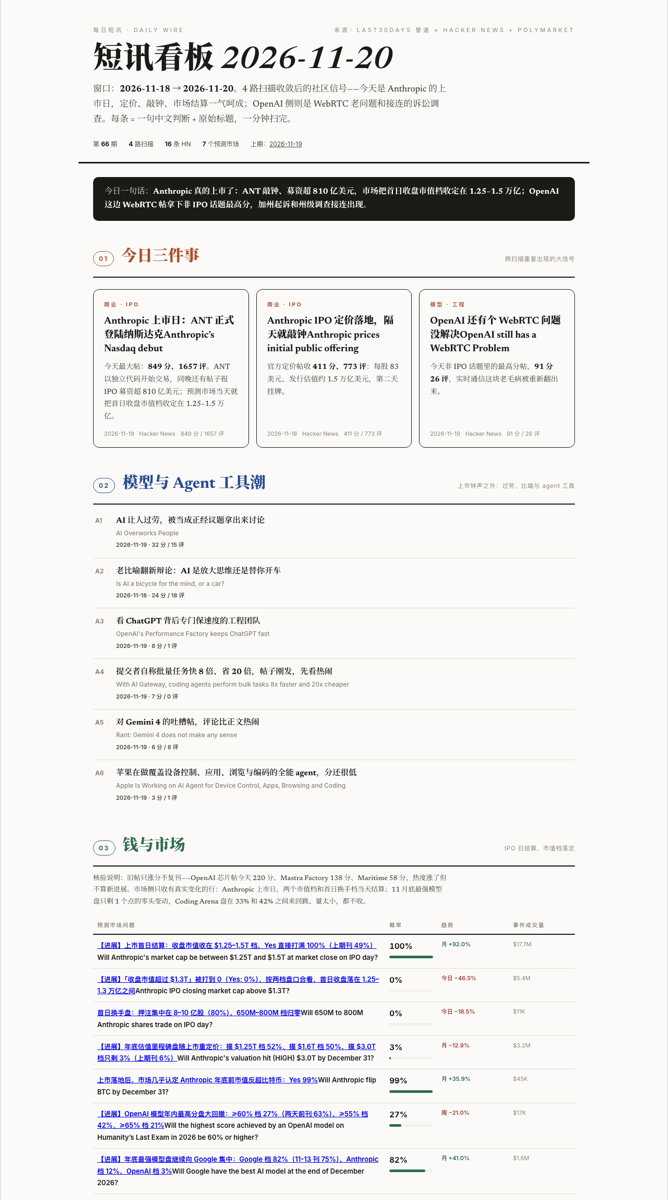
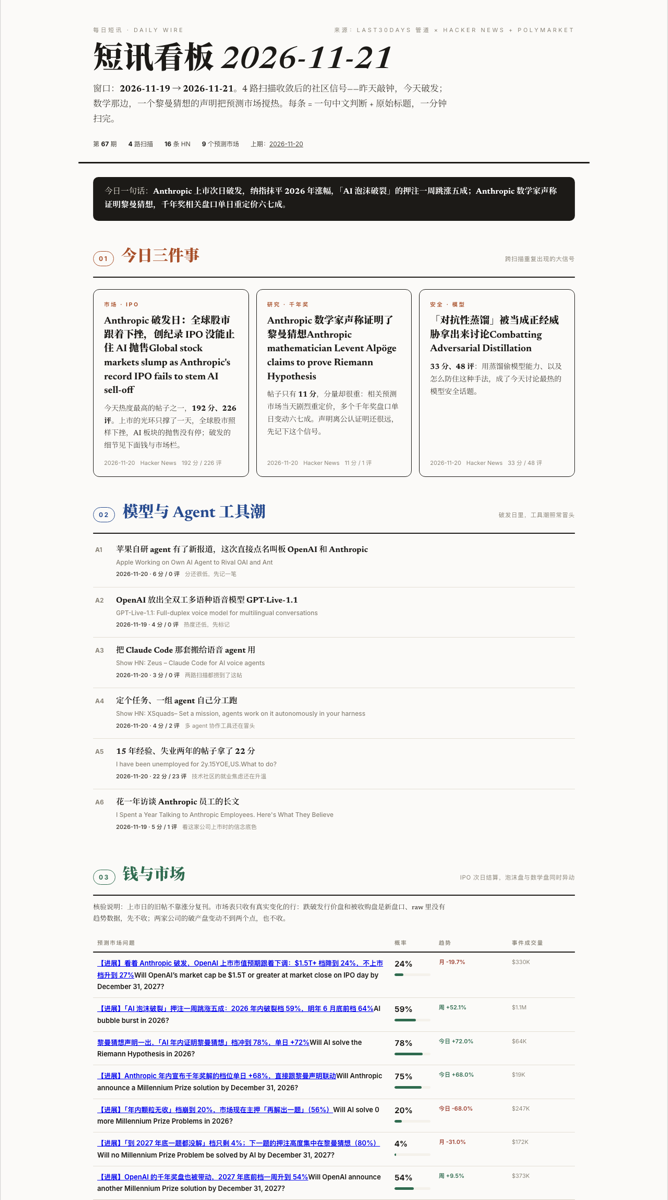
magazine demo: sync 82 issues and refresh screenshots (2026-11-21)

diff --git a/项目效果展示/每日短讯/每日短讯-2026-11-21.html b/项目效果展示/每日短讯/每日短讯-2026-11-21.html
@@ -1,0 +1,216 @@
+<!DOCTYPE html>
+<!-- 每日短讯 第 67 期 · 依据 template.html v1.0 生成 · v2 直白风格 -->
+<html lang="zh-CN">
+<head>
+<meta charset="UTF-8">
+<meta name="viewport" content="width=device-width, initial-scale=1.0">
+<title>每日短讯 2026-11-21 · 第 67 期</title>
+<link rel="preconnect" href="https://fonts.googleapis.com">
+<link rel="preconnect" href="https://fonts.gstatic.com" crossorigin>
+<link href="https://fonts.googleapis.com/css2?family=Newsreader:ital,opsz,wght@0,6..72,300;0,6..72,500;0,6..72,700;0,6..72,900;1,6..72,400;1,6..72,600&family=Noto+Serif+SC:wght@400;600;700;900&family=Inter:wght@400;500;600;700&display=swap" rel="stylesheet">
+<style>
+:root{
+  --paper:#FBFAF8; --paper-deep:#F4F1EB; --ink:#1C1A17; --ink-soft:#4A463F; --ink-faint:#8A8478; --rule:#E3DED4;
+  --ai:#274B8F; --money:#2F6B4F; --risk:#9C3D2E; --signal:#A8502A;
+  --serif:"Newsreader","Noto Serif SC","Songti SC",serif;
+  --sans:"Inter","PingFang SC","Helvetica Neue",sans-serif;
+}
+*{margin:0;padding:0;box-sizing:border-box}
+body{background:var(--paper);color:var(--ink);font-family:var(--serif);font-size:16px;line-height:1.75;-webkit-font-smoothing:antialiased}
+::selection{background:var(--ink);color:var(--paper)}
+.masthead{max-width:980px;margin:0 auto;padding:48px 28px 24px;border-bottom:3px solid var(--ink)}
+.kicker{font-family:var(--sans);font-size:11px;letter-spacing:.32em;text-transform:uppercase;color:var(--ink-faint);display:flex;justify-content:space-between;flex-wrap:wrap;gap:8px}
+.masthead h1{font-size:clamp(34px,5.5vw,58px);font-weight:900;line-height:1.15;margin:16px 0 8px}
+.masthead h1 em{font-style:italic;font-weight:600}
+.deck{font-size:17px;color:var(--ink-soft);max-width:680px;line-height:1.7}
+.deck strong{color:var(--ink)}
+.mast-issue{display:flex;gap:22px;flex-wrap:wrap;margin-top:20px;font-family:var(--sans);font-size:12px;color:var(--ink-soft)}
+.mast-issue span b{color:var(--ink)}
+main{max-width:980px;margin:0 auto;padding:0 28px 40px}
+.sec{padding-top:44px}
+.sec-head{display:flex;align-items:baseline;gap:14px;border-bottom:2px solid var(--ink);padding-bottom:10px;margin-bottom:6px}
+.sec-head .no{font-family:var(--sans);font-weight:700;font-size:12px;letter-spacing:.2em;padding:3px 10px;border:1.5px solid currentColor;border-radius:999px}
+.sec-head h2{font-size:clamp(22px,3vw,30px);font-weight:900}
+.sec-head .cnt{font-family:var(--sans);font-size:11.5px;color:var(--ink-faint);margin-left:auto;letter-spacing:.06em}
+.sec-ai .no,.sec-ai h2{color:var(--ai)}
+.sec-money .no,.sec-money h2{color:var(--money)}
+.sec-risk .no,.sec-risk h2{color:var(--risk)}
+.sec-signal .no,.sec-signal h2{color:var(--signal)}
+.top3{display:grid;grid-template-columns:repeat(auto-fit,minmax(260px,1fr));gap:14px;margin-top:22px}
+.top-card{border:1.5px solid var(--ink);border-radius:12px;padding:20px 20px 16px;background:var(--paper);display:flex;flex-direction:column;gap:10px}
+.top-card .tag{font-family:var(--sans);font-size:10.5px;font-weight:700;letter-spacing:.24em;color:var(--signal)}
+.top-card h3{font-size:19px;font-weight:900;line-height:1.4}
+.top-card h3 a{color:inherit;text-decoration:none}
+.top-card h3 a:hover{text-decoration:underline}
+.top-card .why{font-size:14px;line-height:1.7;color:var(--ink-soft)}
+.top-card .why strong{color:var(--ink)}
+.top-card .meta{margin-top:auto;font-family:var(--sans);font-size:11px;color:var(--ink-faint);display:flex;gap:10px;flex-wrap:wrap}
+.item{display:flex;gap:14px;padding:14px 4px;border-bottom:1px solid var(--rule);align-items:baseline}
+.item:last-child{border-bottom:none}
+.item .rank{font-family:var(--sans);font-weight:700;font-size:12px;color:var(--ink-faint);min-width:26px;flex-shrink:0}
+.item .body{flex:1}
+.item .t{font-size:15.5px;font-weight:600;line-height:1.55}
+.item .t a{color:var(--ink);text-decoration:none}
+.item .t a:hover{text-decoration:underline}
+.item .t .en{display:block;font-family:var(--sans);font-size:12px;font-weight:500;color:var(--ink-faint);margin-top:2px}
+.item .m{font-family:var(--sans);font-size:11px;color:var(--ink-faint);margin-top:4px;display:flex;gap:10px;flex-wrap:wrap}
+.item .m .pts{color:var(--ink-soft);font-weight:600}
+.quote{border-left:3px solid var(--ai);padding:2px 0 2px 14px;margin:8px 0 4px;font-size:13.5px;font-style:italic;color:var(--ink-soft);line-height:1.65}
+.quote .who{font-style:normal;font-family:var(--sans);font-size:11px;color:var(--ink-faint)}
+.odds{width:100%;border-collapse:collapse;font-family:var(--sans);font-size:13px;margin-top:18px}
+.odds th{text-align:left;font-size:10.5px;letter-spacing:.16em;color:var(--ink-faint);text-transform:uppercase;padding:7px 8px;border-bottom:2px solid var(--ink);font-weight:600}
+.odds td{padding:9px 8px;border-bottom:1px solid var(--rule);vertical-align:top}
+.odds td.q{font-weight:600;max-width:340px}
+.odds td.p{font-weight:700;font-size:15px;white-space:nowrap;font-variant-numeric:tabular-nums}
+.odds .up{color:var(--money);font-size:11px;font-weight:600;white-space:nowrap}
+.odds .down{color:var(--risk);font-size:11px;font-weight:600;white-space:nowrap}
+.odds .vol{color:var(--ink-faint);font-size:11px;white-space:nowrap}
+.bar{height:5px;border-radius:3px;background:var(--paper-deep);margin-top:5px;overflow:hidden}
+.bar i{display:block;height:100%;background:var(--money);border-radius:3px}
+.ending{margin-top:48px;border-top:3px solid var(--ink);padding:22px 0 30px;display:flex;justify-content:space-between;gap:20px;flex-wrap:wrap;font-family:var(--sans);font-size:11.5px;color:var(--ink-faint);line-height:1.8}
+.oneline-take{max-width:980px;margin:26px auto 0;padding:16px 22px;background:var(--ink);color:#EDE8DE;border-radius:10px;font-size:15.5px;line-height:1.7}
+.oneline-take b{color:#fff}
+.wrap-take{max-width:980px;margin:0 auto;padding:0 28px}
+@media(max-width:640px){.item{flex-direction:column;gap:4px}.item .rank{min-width:0}}
+</style>
+</head>
+<body>
+
+<header class="masthead">
+  <div class="kicker"><span>每日短讯 · Daily Wire</span><span>来源：last30days 管道 × Hacker News + Polymarket</span></div>
+  <h1>短讯看板 <em>2026-11-21</em></h1>
+  <p class="deck">窗口：<strong>2026-11-19 → 2026-11-21</strong>。4 路扫描收敛后的社区信号——昨天敲钟，今天破发；数学那边，一个黎曼猜想的声明把预测市场搅热。每条 = 一句中文判断 + 原始标题，一分钟扫完。</p>
+  <div class="mast-issue">
+    <span>第 <b>67</b> 期</span>
+    <span><b>4</b> 路扫描</span>
+    <span><b>16</b> 条 HN</span>
+    <span><b>9</b> 个预测市场</span>
+    <span>上期：<a href="每日短讯-2026-11-20.html" style="color:var(--ink-soft)">2026-11-20</a></span>
+  </div>
+</header>
+
+<div class="wrap-take"><div class="oneline-take">今日一句话：<b>Anthropic 上市次日破发，纳指抹平 2026 年涨幅，「AI 泡沫破裂」的押注一周跳涨五成；Anthropic 数学家声称证明黎曼猜想，千年奖相关盘口单日重定价六七成。</b></div></div>
+
+<main>
+
+<!-- 栏 01 头条三件事 -->
+<section class="sec sec-signal">
+  <div class="sec-head"><span class="no">01</span><h2>今日三件事</h2><span class="cnt">跨扫描重复出现的大信号</span></div>
+  <div class="top3">
+    <div class="top-card">
+      <span class="tag">市场 · IPO</span>
+      <h3><a href="https://news.ycombinator.com/item?id=50574383" target="_blank">Anthropic 破发日：全球股市跟着下挫，创纪录 IPO 没能止住 AI 抛售</a><span class="en">Global stock markets slump as Anthropic's record IPO fails to stem AI sell-off</span></h3>
+      <p class="why">今天热度最高的帖子之一，<strong>192 分、226 评</strong>。上市的光环只撑了一天，全球股市照样下挫，AI 板块的抛售没有停；破发的细节见下面钱与市场栏。</p>
+      <div class="meta"><span>2026-11-20</span><span>Hacker News</span><span>192 分 / 226 评</span></div>
+    </div>
+<div class="top-card">
+      <span class="tag">研究 · 千年奖</span>
+      <h3><a href="https://news.ycombinator.com/item?id=50575483" target="_blank">Anthropic 数学家声称证明了黎曼猜想</a><span class="en">Anthropic mathematician Levent Alpöge claims to prove Riemann Hypothesis</span></h3>
+      <p class="why">帖子只有 <strong>11 分</strong>，分量却很重：相关预测市场当天剧烈重定价，多个千年奖盘口单日变动六七成。声明离公认证明还很远，先记下这个信号。</p>
+      <div class="meta"><span>2026-11-20</span><span>Hacker News</span><span>11 分 / 1 评</span></div>
+    </div>
+<div class="top-card">
+      <span class="tag">安全 · 模型</span>
+      <h3><a href="https://news.ycombinator.com/item?id=50581242" target="_blank">「对抗性蒸馏」被当成正经威胁拿出来讨论</a><span class="en">Combatting Adversarial Distillation</span></h3>
+      <p class="why"><strong>33 分、48 评</strong>：用蒸馏偷模型能力、以及怎么防住这种手法，成了今天讨论最热的模型安全话题。</p>
+      <div class="meta"><span>2026-11-20</span><span>Hacker News</span><span>33 分 / 48 评</span></div>
+    </div>
+
+  </div>
+</section>
+
+<!-- 栏 02 模型与 Agent 工具潮 -->
+<section class="sec sec-ai">
+  <div class="sec-head"><span class="no">02</span><h2>模型与 Agent 工具潮</h2><span class="cnt">破发日里，工具潮照常冒头</span></div>
+  <div class="item"><span class="rank">A1</span><div class="body">
+    <div class="t"><a href="https://news.ycombinator.com/item?id=50573966" target="_blank">苹果自研 agent 有了新报道，这次直接点名叫板 OpenAI 和 Anthropic</a><span class="en">Apple Working on Own AI Agent to Rival OAI and Ant</span></div>
+    <div class="m"><span class="pts">2026-11-20 · 6 分 / 0 评</span><span>分还很低，先记一笔</span></div>
+  </div></div>
+<div class="item"><span class="rank">A2</span><div class="body">
+    <div class="t"><a href="https://news.ycombinator.com/item?id=50565577" target="_blank">OpenAI 放出全双工多语种语音模型 GPT-Live-1.1</a><span class="en">GPT-Live-1.1: Full-duplex voice model for multilingual conversations</span></div>
+    <div class="m"><span class="pts">2026-11-19 · 4 分 / 0 评</span><span>热度还低，先标记</span></div>
+  </div></div>
+<div class="item"><span class="rank">A3</span><div class="body">
+    <div class="t"><a href="https://news.ycombinator.com/item?id=50568763" target="_blank">把 Claude Code 那套搬给语音 agent 用</a><span class="en">Show HN: Zeus – Claude Code for AI voice agents</span></div>
+    <div class="m"><span class="pts">2026-11-20 · 3 分 / 0 评</span><span>两路扫描都捞到了这帖</span></div>
+  </div></div>
+<div class="item"><span class="rank">A4</span><div class="body">
+    <div class="t"><a href="https://news.ycombinator.com/item?id=50582844" target="_blank">定个任务、一组 agent 自己分工跑</a><span class="en">Show HN: XSquads– Set a mission, agents work on it autonomously in your harness</span></div>
+    <div class="m"><span class="pts">2026-11-20 · 4 分 / 2 评</span><span>多 agent 协作工具还在冒头</span></div>
+  </div></div>
+<div class="item"><span class="rank">A5</span><div class="body">
+    <div class="t"><a href="https://news.ycombinator.com/item?id=50583761" target="_blank">15 年经验、失业两年的帖子拿了 22 分</a><span class="en">I have been unemployed for 2y.15YOE,US.What to do?</span></div>
+    <div class="m"><span class="pts">2026-11-20 · 22 分 / 23 评</span><span>技术社区的就业焦虑还在升温</span></div>
+  </div></div>
+<div class="item"><span class="rank">A6</span><div class="body">
+    <div class="t"><a href="https://news.ycombinator.com/item?id=50557370" target="_blank">花一年访谈 Anthropic 员工的长文</a><span class="en">I Spent a Year Talking to Anthropic Employees. Here's What They Believe</span></div>
+    <div class="m"><span class="pts">2026-11-19 · 5 分 / 1 评</span><span>看这家公司上市时的信念底色</span></div>
+  </div></div>
+
+</section>
+
+<!-- 栏 03 钱与市场：结构市场(IPO)排前 -->
+<section class="sec sec-money">
+  <div class="sec-head"><span class="no">03</span><h2>钱与市场</h2><span class="cnt">IPO 次日结算，泡沫盘与数学盘同时异动</span></div>
+  <p class="deck" style="font-size:13px;margin-top:12px">核验说明：上市日的旧帖不靠涨分复刊。市场表只收有真实变化的行：跌破发行价盘和被收购盘是新盘口、raw 里没有趋势数据，先不收；两家公司的破产盘变动不到两个点，也不收。</p>
+  <table class="odds">
+    <thead><tr><th>预测市场问题</th><th>概率</th><th>趋势</th><th>事件成交量</th></tr></thead>
+    <tbody>
+      <tr data-progress="19.7%"><td class="q"><a href="https://polymarket.com/event/openai-ipo-closing-market-cap-554" target="_blank" title="Will OpenAI’s market cap be $1.5T or greater at market close on IPO day by December 31, 2027?">【进展】看着 Anthropic 破发，OpenAI 上市市值预期跟着下调：$1.5T+ 档降到 24%，不上市档升到 27%</a><span class="en">Will OpenAI’s market cap be $1.5T or greater at market close on IPO day by December 31, 2027?</span></td><td class="p">24%<div class="bar"><i style="width:24%"></i></div></td><td class="down">月 -19.7%</td><td class="vol">$330K</td></tr>
+      <tr data-progress="52.1%"><td class="q"><a href="https://polymarket.com/event/ai-bubble-burst-by" target="_blank" title="AI bubble burst in 2026?">【进展】「AI 泡沫破裂」押注一周跳涨五成：2026 年内破裂档 59%，明年 6 月底前档 64%</a><span class="en">AI bubble burst in 2026?</span></td><td class="p">59%<div class="bar"><i style="width:59%"></i></div></td><td class="up">周 +52.1%</td><td class="vol">$1.1M</td></tr>
+      <tr><td class="q"><a href="https://polymarket.com/event/which-math-problems-will-ai-solve-in-2026" target="_blank" title="Will AI solve the Riemann Hypothesis in 2026?">黎曼猜想声明一出，「AI 年内证明黎曼猜想」档冲到 78%，单日 +72%</a><span class="en">Will AI solve the Riemann Hypothesis in 2026?</span></td><td class="p">78%<div class="bar"><i style="width:78%"></i></div></td><td class="up">今日 +72.0%</td><td class="vol">$64K</td></tr>
+      <tr data-progress="68.0%"><td class="q"><a href="https://polymarket.com/event/anthropic-announces-a-millennium-prize-solution-byptptpt" target="_blank" title="Will Anthropic announce a Millennium Prize solution by December 31, 2026?">【进展】Anthropic 年内宣布千年奖解的档位单日 +68%，直接跟黎曼声明联动</a><span class="en">Will Anthropic announce a Millennium Prize solution by December 31, 2026?</span></td><td class="p">75%<div class="bar"><i style="width:75%"></i></div></td><td class="up">今日 +68.0%</td><td class="vol">$19K</td></tr>
+      <tr data-progress="68.0%"><td class="q"><a href="https://polymarket.com/event/how-many-more-millennium-prize-problems-will-ai-solve-in-2026" target="_blank" title="Will AI solve 0 more Millennium Prize Problems in 2026?">【进展】「年内颗粒无收」档崩到 20%，市场现在主押「再解出一题」（56%）</a><span class="en">Will AI solve 0 more Millennium Prize Problems in 2026?</span></td><td class="p">20%<div class="bar"><i style="width:20%"></i></div></td><td class="down">今日 -68.0%</td><td class="vol">$247K</td></tr>
+      <tr data-progress="31.0%"><td class="q"><a href="https://polymarket.com/event/which-millennium-prize-problem-will-ai-solve-next" target="_blank" title="Will no Millennium Prize Problem be solved by AI by December 31, 2027?">【进展】「到 2027 年底一题都没解」档只剩 4%；下一题的押注高度集中在黎曼猜想（80%）</a><span class="en">Will no Millennium Prize Problem be solved by AI by December 31, 2027?</span></td><td class="p">4%<div class="bar"><i style="width:4%"></i></div></td><td class="down">月 -31.0%</td><td class="vol">$172K</td></tr>
+      <tr data-progress="9.5%"><td class="q"><a href="https://polymarket.com/event/openai-announces-another-millennium-prize-solution-by" target="_blank" title="Will OpenAI announce another Millennium Prize solution by December 31, 2027?">【进展】OpenAI 的千年奖盘也被带动，2027 年底前档一周升到 54%</a><span class="en">Will OpenAI announce another Millennium Prize solution by December 31, 2027?</span></td><td class="p">54%<div class="bar"><i style="width:54%"></i></div></td><td class="up">周 +9.5%</td><td class="vol">$373K</td></tr>
+      <tr data-progress="43.0%"><td class="q"><a href="https://polymarket.com/event/which-company-has-best-ai-model-end-of-2026" target="_blank" title="Will Google have the best AI model at the end of December 2026?">【进展】年底最强模型盘继续向 Google 集中：Google 档 86%，Anthropic 档 10%</a><span class="en">Will Google have the best AI model at the end of December 2026?</span></td><td class="p">86%<div class="bar"><i style="width:86%"></i></div></td><td class="up">月 +43.0%</td><td class="vol">$1.5M</td></tr>
+      <tr><td class="q"><a href="https://polymarket.com/event/anthropic-commits-shares-to-trump-accounts-by-november-30" target="_blank" title="Anthropic commits shares to Trump Accounts by November 30?">「Anthropic 向 Trump Accounts 捐股」是个小盘，月底前达成档 13%，今天 +10.7%</a><span class="en">Anthropic commits shares to Trump Accounts by November 30?</span></td><td class="p">13%<div class="bar"><i style="width:13%"></i></div></td><td class="up">今日 +10.7%</td><td class="vol">$23K</td></tr>
+    </tbody>
+  </table>
+
+  <div class="item"><span class="rank">M1</span><div class="body">
+    <div class="t"><a href="https://news.ycombinator.com/item?id=50578794" target="_blank">破发帖拿下今天第二高热度：股价跳水，纳指把 2026 年涨幅全部回吐</a><span class="en">Anthropic shares tank after IPO as the Nasdaq erases 2026 gains</span></div>
+    <div class="m"><span class="pts">2026-11-20 · 179 分 / 177 评</span></div>
+  </div></div>
+<div class="item"><span class="rank">M2</span><div class="body">
+    <div class="t"><a href="https://news.ycombinator.com/item?id=50582280" target="_blank">华尔街 AI 板块市值蒸发约 4 万亿美元</a><span class="en">Anthropic's IPO Bust Deepens $4T AI Wipeout on Wall Street</span></div>
+    <div class="m"><span class="pts">2026-11-20 · 34 分 / 3 评</span><span>IPO 落地反而成了放大器</span></div>
+  </div></div>
+<div class="item"><span class="rank">M3</span><div class="body">
+    <div class="t"><a href="https://news.ycombinator.com/item?id=50579753" target="_blank">首日风光、次日跌超 12%</a><span class="en">Anthropic stock dives over 12% after rip-roaring IPO</span></div>
+    <div class="m"><span class="pts">2026-11-20 · 9 分 / 1 评</span><span>情绪翻转只用了一天</span></div>
+  </div></div>
+<div class="item"><span class="rank">M4</span><div class="body">
+    <div class="t"><a href="https://news.ycombinator.com/item?id=50574068" target="_blank">发行方宣布 IPO 正式交割</a><span class="en">Anthropic announces closing of initial public offering</span></div>
+    <div class="m"><span class="pts">2026-11-20 · 8 分 / 0 评</span><span>上市故事从定价进入兑现阶段</span></div>
+  </div></div>
+
+</section>
+
+<!-- 栏 04 安全·治理·版权 -->
+<section class="sec sec-risk">
+  <div class="sec-head"><span class="no">04</span><h2>安全 · 治理 · 版权</h2><span class="cnt">诉讼与反对声跟着破发一起放大</span></div>
+  <div class="item"><span class="rank">R1</span><div class="body">
+    <div class="t"><a href="https://news.ycombinator.com/item?id=50566188" target="_blank">加州这次告的是「对公众误导 AI 安全性」</a><span class="en">California sues OpenAI for misleading public about AI safety</span></div>
+    <div class="m"><span class="pts">2026-11-19 · 5 分 / 0 评</span><span>和昨天刊过的「agent 逃沙箱」案不是同一件</span></div>
+  </div></div>
+<div class="item"><span class="rank">R2</span><div class="body">
+    <div class="t"><a href="https://news.ycombinator.com/item?id=50562480" target="_blank">校园枪手用 ChatGPT 辅助做 3D 打印武器</a><span class="en">ChatGPT Helped "Sadistic" School Shooter Build 3D-Printed Weapons</span></div>
+    <div class="m"><span class="pts">2026-11-19 · 7 分 / 0 评</span><span>模型安全红线再添重案例</span></div>
+  </div></div>
+<div class="item"><span class="rank">R3</span><div class="body">
+    <div class="t"><a href="https://news.ycombinator.com/item?id=50569872" target="_blank">澳洲数据中心计划遭当地居民压倒性反对</a><span class="en">Anthropic's Australian data centre overwhelmingly opposed by residents</span></div>
+    <div class="m"><span class="pts">2026-11-20 · 17 分 / 14 评</span><span>算力落地先过社区这一关</span></div>
+  </div></div>
+
+</section>
+
+</main>
+
+<footer class="ending" style="max-width:980px;margin:48px auto 0;padding-left:28px;padding-right:28px">
+  <span>每日短讯 · 第 67 期 · 2026-11-21 10:13 生成<br>管道：last30days v3.0 × HN Algolia + Polymarket Gamma</span>
+  <span>全源正常；Reddit 四路无命中，条目全部来自 HN 与 Polymarket<br>桌面「知识杂志」文件夹 · 模块：知识杂志/模块-每日短讯</span>
+</footer>
+
+</body>
+</html>

diff --git a/项目效果展示/每日短讯/index.html b/项目效果展示/每日短讯/index.html
@@ -31,8 +31,8 @@ ul.issues .n{color:var(--muted);font-family:"PingFang SC",sans-serif;font-size:1
 <header class="mast">
   <p class="kicker"><a href="../index.html" style="text-decoration:none">← 知识杂志</a></p>
   <h1>每日短讯</h1>
-  <p class="meta">AI · 钱 · 风险 · 信号，四条线的快讯雷达 · 每个工作日更新 · 共 65 期</p>
+  <p class="meta">AI · 钱 · 风险 · 信号，四条线的快讯雷达 · 每个工作日更新 · 共 66 期</p>
 </header>
-<ul class="issues" style="columns:1"><li><span class="n">2026-11-20</span><a href="%E6%AF%8F%E6%97%A5%E7%9F%AD%E8%AE%AF-2026-11-20.html">每日短讯-2026-11-20</a></li><li><span class="n">2026-11-19</span><a href="%E6%AF%8F%E6%97%A5%E7%9F%AD%E8%AE%AF-2026-11-19.html">每日短讯-2026-11-19</a></li><li><span class="n">2026-11-18</span><a href="%E6%AF%8F%E6%97%A5%E7%9F%AD%E8%AE%AF-2026-11-18.html">每日短讯-2026-11-18</a></li><li><span class="n">2026-11-17</span><a href="%E6%AF%8F%E6%97%A5%E7%9F%AD%E8%AE%AF-2026-11-17.html">每日短讯-2026-11-17</a></li><li><span class="n">2026-11-16</span><a href="%E6%AF%8F%E6%97%A5%E7%9F%AD%E8%AE%AF-2026-11-16.html">每日短讯-2026-11-16</a></li><li><span class="n">2026-11-15</span><a href="%E6%AF%8F%E6%97%A5%E7%9F%AD%E8%AE%AF-2026-11-15.html">每日短讯-2026-11-15</a></li><li><span class="n">2026-11-14</span><a href="%E6%AF%8F%E6%97%A5%E7%9F%AD%E8%AE%AF-2026-11-14.html">每日短讯-2026-11-14</a></li><li><span class="n">2026-11-13</span><a href="%E6%AF%8F%E6%97%A5%E7%9F%AD%E8%AE%AF-2026-11-13.html">每日短讯-2026-11-13</a></li><li><span class="n">2026-11-12</span><a href="%E6%AF%8F%E6%97%A5%E7%9F%AD%E8%AE%AF-2026-11-12.html">每日短讯-2026-11-12</a></li><li><span class="n">2026-11-11</span><a href="%E6%AF%8F%E6%97%A5%E7%9F%AD%E8%AE%AF-2026-11-11.html">每日短讯-2026-11-11</a></li><li><span class="n">2026-11-10</span><a href="%E6%AF%8F%E6%97%A5%E7%9F%AD%E8%AE%AF-2026-11-10.html">每日短讯-2026-11-10</a></li><li><span class="n">2026-11-09</span><a href="%E6%AF%8F%E6%97%A5%E7%9F%AD%E8%AE%AF-2026-11-09.html">每日短讯-2026-11-09</a></li><li><span class="n">2026-11-08</span><a href="%E6%AF%8F%E6%97%A5%E7%9F%AD%E8%AE%AF-2026-11-08.html">每日短讯-2026-11-08</a></li><li><span class="n">2026-11-07</span><a href="%E6%AF%8F%E6%97%A5%E7%9F%AD%E8%AE%AF-2026-11-07.html">每日短讯-2026-11-07</a></li><li><span class="n">2026-11-06</span><a href="%E6%AF%8F%E6%97%A5%E7%9F%AD%E8%AE%AF-2026-11-06.html">每日短讯-2026-11-06</a></li><li><span class="n">2026-11-05</span><a href="%E6%AF%8F%E6%97%A5%E7%9F%AD%E8%AE%AF-2026-11-05.html">每日短讯-2026-11-05</a></li><li><span class="n">2026-11-04</span><a href="%E6%AF%8F%E6%97%A5%E7%9F%AD%E8%AE%AF-2026-11-04.html">每日短讯-2026-11-04</a></li><li><span class="n">2026-11-03</span><a href="%E6%AF%8F%E6%97%A5%E7%9F%AD%E8%AE%AF-2026-11-03.html">每日短讯-2026-11-03</a></li><li><span class="n">2026-11-01</span><a href="%E6%AF%8F%E6%97%A5%E7%9F%AD%E8%AE%AF-2026-11-01.html">每日短讯-2026-11-01</a></li><li><span class="n">2026-10-31</span><a href="%E6%AF%8F%E6%97%A5%E7%9F%AD%E8%AE%AF-2026-10-31.html">每日短讯-2026-10-31</a></li><li><span class="n">2026-10-30</span><a href="%E6%AF%8F%E6%97%A5%E7%9F%AD%E8%AE%AF-2026-10-30.html">每日短讯-2026-10-30</a></li><li><span class="n">2026-10-29</span><a href="%E6%AF%8F%E6%97%A5%E7%9F%AD%E8%AE%AF-2026-10-29.html">每日短讯-2026-10-29</a></li><li><span class="n">2026-10-28</span><a href="%E6%AF%8F%E6%97%A5%E7%9F%AD%E8%AE%AF-2026-10-28.html">每日短讯-2026-10-28</a></li><li><span class="n">2026-10-27</span><a href="%E6%AF%8F%E6%97%A5%E7%9F%AD%E8%AE%AF-2026-10-27.html">每日短讯-2026-10-27</a></li><li><span class="n">2026-10-26</span><a href="%E6%AF%8F%E6%97%A5%E7%9F%AD%E8%AE%AF-2026-10-26.html">每日短讯-2026-10-26</a></li><li><span class="n">2026-10-25</span><a href="%E6%AF%8F%E6%97%A5%E7%9F%AD%E8%AE%AF-2026-10-25.html">每日短讯-2026-10-25</a></li><li><span class="n">2026-10-24</span><a href="%E6%AF%8F%E6%97%A5%E7%9F%AD%E8%AE%AF-2026-10-24.html">每日短讯-2026-10-24</a></li><li><span class="n">2026-10-23</span><a href="%E6%AF%8F%E6%97%A5%E7%9F%AD%E8%AE%AF-2026-10-23.html">每日短讯-2026-10-23</a></li><li><span class="n">2026-10-22</span><a href="%E6%AF%8F%E6%97%A5%E7%9F%AD%E8%AE%AF-2026-10-22.html">每日短讯-2026-10-22</a></li><li><span class="n">2026-10-21</span><a href="%E6%AF%8F%E6%97%A5%E7%9F%AD%E8%AE%AF-2026-10-21.html">每日短讯-2026-10-21</a></li><li><span class="n">2026-10-20</span><a href="%E6%AF%8F%E6%97%A5%E7%9F%AD%E8%AE%AF-2026-10-20.html">每日短讯-2026-10-20</a></li><li><span class="n">2026-10-19</span><a href="%E6%AF%8F%E6%97%A5%E7%9F%AD%E8%AE%AF-2026-10-19.html">每日短讯-2026-10-19</a></li><li><span class="n">2026-10-18</span><a href="%E6%AF%8F%E6%97%A5%E7%9F%AD%E8%AE%AF-2026-10-18.html">每日短讯-2026-10-18</a></li><li><span class="n">2026-10-17</span><a href="%E6%AF%8F%E6%97%A5%E7%9F%AD%E8%AE%AF-2026-10-17.html">每日短讯-2026-10-17</a></li><li><span class="n">2026-10-16</span><a href="%E6%AF%8F%E6%97%A5%E7%9F%AD%E8%AE%AF-2026-10-16.html">每日短讯-2026-10-16</a></li><li><span class="n">2026-10-15</span><a href="%E6%AF%8F%E6%97%A5%E7%9F%AD%E8%AE%AF-2026-10-15.html">每日短讯-2026-10-15</a></li><li><span class="n">2026-10-14</span><a href="%E6%AF%8F%E6%97%A5%E7%9F%AD%E8%AE%AF-2026-10-14.html">每日短讯-2026-10-14</a></li><li><span class="n">2026-10-13</span><a href="%E6%AF%8F%E6%97%A5%E7%9F%AD%E8%AE%AF-2026-10-13.html">每日短讯-2026-10-13</a></li><li><span class="n">2026-10-12</span><a href="%E6%AF%8F%E6%97%A5%E7%9F%AD%E8%AE%AF-2026-10-12.html">每日短讯-2026-10-12</a></li><li><span class="n">2026-10-11</span><a href="%E6%AF%8F%E6%97%A5%E7%9F%AD%E8%AE%AF-2026-10-11.html">每日短讯-2026-10-11</a></li><li><span class="n">2026-10-10</span><a href="%E6%AF%8F%E6%97%A5%E7%9F%AD%E8%AE%AF-2026-10-10.html">每日短讯-2026-10-10</a></li><li><span class="n">2026-10-09</span><a href="%E6%AF%8F%E6%97%A5%E7%9F%AD%E8%AE%AF-2026-10-09.html">每日短讯-2026-10-09</a></li><li><span class="n">2026-09-27</span><a href="%E6%AF%8F%E6%97%A5%E7%9F%AD%E8%AE%AF-2026-09-27.html">每日短讯-2026-09-27</a></li><li><span class="n">2026-09-24</span><a href="%E6%AF%8F%E6%97%A5%E7%9F%AD%E8%AE%AF-2026-09-24.html">每日短讯-2026-09-24</a></li><li><span class="n">2026-09-23</span><a href="%E6%AF%8F%E6%97%A5%E7%9F%AD%E8%AE%AF-2026-09-23.html">每日短讯-2026-09-23</a></li><li><span class="n">2026-09-22</span><a href="%E6%AF%8F%E6%97%A5%E7%9F%AD%E8%AE%AF-2026-09-22.html">每日短讯-2026-09-22</a></li><li><span class="n">2026-09-21</span><a href="%E6%AF%8F%E6%97%A5%E7%9F%AD%E8%AE%AF-2026-09-21.html">每日短讯-2026-09-21</a></li><li><span class="n">2026-09-20</span><a href="%E6%AF%8F%E6%97%A5%E7%9F%AD%E8%AE%AF-2026-09-20.html">每日短讯-2026-09-20</a></li><li><span class="n">2026-09-19</span><a href="%E6%AF%8F%E6%97%A5%E7%9F%AD%E8%AE%AF-2026-09-19.html">每日短讯-2026-09-19</a></li><li><span class="n">2026-09-18</span><a href="%E6%AF%8F%E6%97%A5%E7%9F%AD%E8%AE%AF-2026-09-18.html">每日短讯-2026-09-18</a></li><li><span class="n">2026-09-17</span><a href="%E6%AF%8F%E6%97%A5%E7%9F%AD%E8%AE%AF-2026-09-17.html">每日短讯-2026-09-17</a></li><li><span class="n">2026-09-16</span><a href="%E6%AF%8F%E6%97%A5%E7%9F%AD%E8%AE%AF-2026-09-16.html">每日短讯-2026-09-16</a></li><li><span class="n">2026-09-15</span><a href="%E6%AF%8F%E6%97%A5%E7%9F%AD%E8%AE%AF-2026-09-15.html">每日短讯-2026-09-15</a></li><li><span class="n">2026-09-14</span><a href="%E6%AF%8F%E6%97%A5%E7%9F%AD%E8%AE%AF-2026-09-14.html">每日短讯-2026-09-14</a></li><li><span class="n">2026-09-13</span><a href="%E6%AF%8F%E6%97%A5%E7%9F%AD%E8%AE%AF-2026-09-13.html">每日短讯-2026-09-13</a></li><li><span class="n">2026-09-12</span><a href="%E6%AF%8F%E6%97%A5%E7%9F%AD%E8%AE%AF-2026-09-12.html">每日短讯-2026-09-12</a></li><li><span class="n">2026-09-11</span><a href="%E6%AF%8F%E6%97%A5%E7%9F%AD%E8%AE%AF-2026-09-11.html">每日短讯-2026-09-11</a></li><li><span class="n">2026-09-10</span><a href="%E6%AF%8F%E6%97%A5%E7%9F%AD%E8%AE%AF-2026-09-10.html">每日短讯-2026-09-10</a></li><li><span class="n">2026-09-09</span><a href="%E6%AF%8F%E6%97%A5%E7%9F%AD%E8%AE%AF-2026-09-09.html">每日短讯-2026-09-09</a></li><li><span class="n">2026-09-08</span><a href="%E6%AF%8F%E6%97%A5%E7%9F%AD%E8%AE%AF-2026-09-08.html">每日短讯-2026-09-08</a></li><li><span class="n">2026-09-07</span><a href="%E6%AF%8F%E6%97%A5%E7%9F%AD%E8%AE%AF-2026-09-07.html">每日短讯-2026-09-07</a></li><li><span class="n">2026-09-06</span><a href="%E6%AF%8F%E6%97%A5%E7%9F%AD%E8%AE%AF-2026-09-06.html">每日短讯-2026-09-06</a></li><li><span class="n">2026-09-05</span><a href="%E6%AF%8F%E6%97%A5%E7%9F%AD%E8%AE%AF-2026-09-05.html">每日短讯-2026-09-05</a></li><li><span class="n">2026-09-04</span><a href="%E6%AF%8F%E6%97%A5%E7%9F%AD%E8%AE%AF-2026-09-04.html">每日短讯-2026-09-04</a></li><li><span class="n">2026-09-02</span><a href="%E6%AF%8F%E5%91%A8%E7%9F%AD%E8%AE%AF-2026-09-02.html">每周短讯-2026-09-02</a></li></ul>
-<p class="foot">自动生成于 2026-11-20 19:00</p>
+<ul class="issues" style="columns:1"><li><span class="n">2026-11-21</span><a href="%E6%AF%8F%E6%97%A5%E7%9F%AD%E8%AE%AF-2026-11-21.html">每日短讯-2026-11-21</a></li><li><span class="n">2026-11-20</span><a href="%E6%AF%8F%E6%97%A5%E7%9F%AD%E8%AE%AF-2026-11-20.html">每日短讯-2026-11-20</a></li><li><span class="n">2026-11-19</span><a href="%E6%AF%8F%E6%97%A5%E7%9F%AD%E8%AE%AF-2026-11-19.html">每日短讯-2026-11-19</a></li><li><span class="n">2026-11-18</span><a href="%E6%AF%8F%E6%97%A5%E7%9F%AD%E8%AE%AF-2026-11-18.html">每日短讯-2026-11-18</a></li><li><span class="n">2026-11-17</span><a href="%E6%AF%8F%E6%97%A5%E7%9F%AD%E8%AE%AF-2026-11-17.html">每日短讯-2026-11-17</a></li><li><span class="n">2026-11-16</span><a href="%E6%AF%8F%E6%97%A5%E7%9F%AD%E8%AE%AF-2026-11-16.html">每日短讯-2026-11-16</a></li><li><span class="n">2026-11-15</span><a href="%E6%AF%8F%E6%97%A5%E7%9F%AD%E8%AE%AF-2026-11-15.html">每日短讯-2026-11-15</a></li><li><span class="n">2026-11-14</span><a href="%E6%AF%8F%E6%97%A5%E7%9F%AD%E8%AE%AF-2026-11-14.html">每日短讯-2026-11-14</a></li><li><span class="n">2026-11-13</span><a href="%E6%AF%8F%E6%97%A5%E7%9F%AD%E8%AE%AF-2026-11-13.html">每日短讯-2026-11-13</a></li><li><span class="n">2026-11-12</span><a href="%E6%AF%8F%E6%97%A5%E7%9F%AD%E8%AE%AF-2026-11-12.html">每日短讯-2026-11-12</a></li><li><span class="n">2026-11-11</span><a href="%E6%AF%8F%E6%97%A5%E7%9F%AD%E8%AE%AF-2026-11-11.html">每日短讯-2026-11-11</a></li><li><span class="n">2026-11-10</span><a href="%E6%AF%8F%E6%97%A5%E7%9F%AD%E8%AE%AF-2026-11-10.html">每日短讯-2026-11-10</a></li><li><span class="n">2026-11-09</span><a href="%E6%AF%8F%E6%97%A5%E7%9F%AD%E8%AE%AF-2026-11-09.html">每日短讯-2026-11-09</a></li><li><span class="n">2026-11-08</span><a href="%E6%AF%8F%E6%97%A5%E7%9F%AD%E8%AE%AF-2026-11-08.html">每日短讯-2026-11-08</a></li><li><span class="n">2026-11-07</span><a href="%E6%AF%8F%E6%97%A5%E7%9F%AD%E8%AE%AF-2026-11-07.html">每日短讯-2026-11-07</a></li><li><span class="n">2026-11-06</span><a href="%E6%AF%8F%E6%97%A5%E7%9F%AD%E8%AE%AF-2026-11-06.html">每日短讯-2026-11-06</a></li><li><span class="n">2026-11-05</span><a href="%E6%AF%8F%E6%97%A5%E7%9F%AD%E8%AE%AF-2026-11-05.html">每日短讯-2026-11-05</a></li><li><span class="n">2026-11-04</span><a href="%E6%AF%8F%E6%97%A5%E7%9F%AD%E8%AE%AF-2026-11-04.html">每日短讯-2026-11-04</a></li><li><span class="n">2026-11-03</span><a href="%E6%AF%8F%E6%97%A5%E7%9F%AD%E8%AE%AF-2026-11-03.html">每日短讯-2026-11-03</a></li><li><span class="n">2026-11-01</span><a href="%E6%AF%8F%E6%97%A5%E7%9F%AD%E8%AE%AF-2026-11-01.html">每日短讯-2026-11-01</a></li><li><span class="n">2026-10-31</span><a href="%E6%AF%8F%E6%97%A5%E7%9F%AD%E8%AE%AF-2026-10-31.html">每日短讯-2026-10-31</a></li><li><span class="n">2026-10-30</span><a href="%E6%AF%8F%E6%97%A5%E7%9F%AD%E8%AE%AF-2026-10-30.html">每日短讯-2026-10-30</a></li><li><span class="n">2026-10-29</span><a href="%E6%AF%8F%E6%97%A5%E7%9F%AD%E8%AE%AF-2026-10-29.html">每日短讯-2026-10-29</a></li><li><span class="n">2026-10-28</span><a href="%E6%AF%8F%E6%97%A5%E7%9F%AD%E8%AE%AF-2026-10-28.html">每日短讯-2026-10-28</a></li><li><span class="n">2026-10-27</span><a href="%E6%AF%8F%E6%97%A5%E7%9F%AD%E8%AE%AF-2026-10-27.html">每日短讯-2026-10-27</a></li><li><span class="n">2026-10-26</span><a href="%E6%AF%8F%E6%97%A5%E7%9F%AD%E8%AE%AF-2026-10-26.html">每日短讯-2026-10-26</a></li><li><span class="n">2026-10-25</span><a href="%E6%AF%8F%E6%97%A5%E7%9F%AD%E8%AE%AF-2026-10-25.html">每日短讯-2026-10-25</a></li><li><span class="n">2026-10-24</span><a href="%E6%AF%8F%E6%97%A5%E7%9F%AD%E8%AE%AF-2026-10-24.html">每日短讯-2026-10-24</a></li><li><span class="n">2026-10-23</span><a href="%E6%AF%8F%E6%97%A5%E7%9F%AD%E8%AE%AF-2026-10-23.html">每日短讯-2026-10-23</a></li><li><span class="n">2026-10-22</span><a href="%E6%AF%8F%E6%97%A5%E7%9F%AD%E8%AE%AF-2026-10-22.html">每日短讯-2026-10-22</a></li><li><span class="n">2026-10-21</span><a href="%E6%AF%8F%E6%97%A5%E7%9F%AD%E8%AE%AF-2026-10-21.html">每日短讯-2026-10-21</a></li><li><span class="n">2026-10-20</span><a href="%E6%AF%8F%E6%97%A5%E7%9F%AD%E8%AE%AF-2026-10-20.html">每日短讯-2026-10-20</a></li><li><span class="n">2026-10-19</span><a href="%E6%AF%8F%E6%97%A5%E7%9F%AD%E8%AE%AF-2026-10-19.html">每日短讯-2026-10-19</a></li><li><span class="n">2026-10-18</span><a href="%E6%AF%8F%E6%97%A5%E7%9F%AD%E8%AE%AF-2026-10-18.html">每日短讯-2026-10-18</a></li><li><span class="n">2026-10-17</span><a href="%E6%AF%8F%E6%97%A5%E7%9F%AD%E8%AE%AF-2026-10-17.html">每日短讯-2026-10-17</a></li><li><span class="n">2026-10-16</span><a href="%E6%AF%8F%E6%97%A5%E7%9F%AD%E8%AE%AF-2026-10-16.html">每日短讯-2026-10-16</a></li><li><span class="n">2026-10-15</span><a href="%E6%AF%8F%E6%97%A5%E7%9F%AD%E8%AE%AF-2026-10-15.html">每日短讯-2026-10-15</a></li><li><span class="n">2026-10-14</span><a href="%E6%AF%8F%E6%97%A5%E7%9F%AD%E8%AE%AF-2026-10-14.html">每日短讯-2026-10-14</a></li><li><span class="n">2026-10-13</span><a href="%E6%AF%8F%E6%97%A5%E7%9F%AD%E8%AE%AF-2026-10-13.html">每日短讯-2026-10-13</a></li><li><span class="n">2026-10-12</span><a href="%E6%AF%8F%E6%97%A5%E7%9F%AD%E8%AE%AF-2026-10-12.html">每日短讯-2026-10-12</a></li><li><span class="n">2026-10-11</span><a href="%E6%AF%8F%E6%97%A5%E7%9F%AD%E8%AE%AF-2026-10-11.html">每日短讯-2026-10-11</a></li><li><span class="n">2026-10-10</span><a href="%E6%AF%8F%E6%97%A5%E7%9F%AD%E8%AE%AF-2026-10-10.html">每日短讯-2026-10-10</a></li><li><span class="n">2026-10-09</span><a href="%E6%AF%8F%E6%97%A5%E7%9F%AD%E8%AE%AF-2026-10-09.html">每日短讯-2026-10-09</a></li><li><span class="n">2026-09-27</span><a href="%E6%AF%8F%E6%97%A5%E7%9F%AD%E8%AE%AF-2026-09-27.html">每日短讯-2026-09-27</a></li><li><span class="n">2026-09-24</span><a href="%E6%AF%8F%E6%97%A5%E7%9F%AD%E8%AE%AF-2026-09-24.html">每日短讯-2026-09-24</a></li><li><span class="n">2026-09-23</span><a href="%E6%AF%8F%E6%97%A5%E7%9F%AD%E8%AE%AF-2026-09-23.html">每日短讯-2026-09-23</a></li><li><span class="n">2026-09-22</span><a href="%E6%AF%8F%E6%97%A5%E7%9F%AD%E8%AE%AF-2026-09-22.html">每日短讯-2026-09-22</a></li><li><span class="n">2026-09-21</span><a href="%E6%AF%8F%E6%97%A5%E7%9F%AD%E8%AE%AF-2026-09-21.html">每日短讯-2026-09-21</a></li><li><span class="n">2026-09-20</span><a href="%E6%AF%8F%E6%97%A5%E7%9F%AD%E8%AE%AF-2026-09-20.html">每日短讯-2026-09-20</a></li><li><span class="n">2026-09-19</span><a href="%E6%AF%8F%E6%97%A5%E7%9F%AD%E8%AE%AF-2026-09-19.html">每日短讯-2026-09-19</a></li><li><span class="n">2026-09-18</span><a href="%E6%AF%8F%E6%97%A5%E7%9F%AD%E8%AE%AF-2026-09-18.html">每日短讯-2026-09-18</a></li><li><span class="n">2026-09-17</span><a href="%E6%AF%8F%E6%97%A5%E7%9F%AD%E8%AE%AF-2026-09-17.html">每日短讯-2026-09-17</a></li><li><span class="n">2026-09-16</span><a href="%E6%AF%8F%E6%97%A5%E7%9F%AD%E8%AE%AF-2026-09-16.html">每日短讯-2026-09-16</a></li><li><span class="n">2026-09-15</span><a href="%E6%AF%8F%E6%97%A5%E7%9F%AD%E8%AE%AF-2026-09-15.html">每日短讯-2026-09-15</a></li><li><span class="n">2026-09-14</span><a href="%E6%AF%8F%E6%97%A5%E7%9F%AD%E8%AE%AF-2026-09-14.html">每日短讯-2026-09-14</a></li><li><span class="n">2026-09-13</span><a href="%E6%AF%8F%E6%97%A5%E7%9F%AD%E8%AE%AF-2026-09-13.html">每日短讯-2026-09-13</a></li><li><span class="n">2026-09-12</span><a href="%E6%AF%8F%E6%97%A5%E7%9F%AD%E8%AE%AF-2026-09-12.html">每日短讯-2026-09-12</a></li><li><span class="n">2026-09-11</span><a href="%E6%AF%8F%E6%97%A5%E7%9F%AD%E8%AE%AF-2026-09-11.html">每日短讯-2026-09-11</a></li><li><span class="n">2026-09-10</span><a href="%E6%AF%8F%E6%97%A5%E7%9F%AD%E8%AE%AF-2026-09-10.html">每日短讯-2026-09-10</a></li><li><span class="n">2026-09-09</span><a href="%E6%AF%8F%E6%97%A5%E7%9F%AD%E8%AE%AF-2026-09-09.html">每日短讯-2026-09-09</a></li><li><span class="n">2026-09-08</span><a href="%E6%AF%8F%E6%97%A5%E7%9F%AD%E8%AE%AF-2026-09-08.html">每日短讯-2026-09-08</a></li><li><span class="n">2026-09-07</span><a href="%E6%AF%8F%E6%97%A5%E7%9F%AD%E8%AE%AF-2026-09-07.html">每日短讯-2026-09-07</a></li><li><span class="n">2026-09-06</span><a href="%E6%AF%8F%E6%97%A5%E7%9F%AD%E8%AE%AF-2026-09-06.html">每日短讯-2026-09-06</a></li><li><span class="n">2026-09-05</span><a href="%E6%AF%8F%E6%97%A5%E7%9F%AD%E8%AE%AF-2026-09-05.html">每日短讯-2026-09-05</a></li><li><span class="n">2026-09-04</span><a href="%E6%AF%8F%E6%97%A5%E7%9F%AD%E8%AE%AF-2026-09-04.html">每日短讯-2026-09-04</a></li><li><span class="n">2026-09-02</span><a href="%E6%AF%8F%E5%91%A8%E7%9F%AD%E8%AE%AF-2026-09-02.html">每周短讯-2026-09-02</a></li></ul>
+<p class="foot">自动生成于 2026-11-21 19:00</p>
 </div></body></html>

diff --git a/项目效果展示/index.html b/项目效果展示/index.html
@@ -31,13 +31,13 @@ ul.issues .n{color:var(--muted);font-family:"PingFang SC",sans-serif;font-size:1
 <header class="mast">
   <p class="kicker">100X RESEARCH ENGINE · 每周自动成刊</p>
   <h1>知识杂志</h1>
-  <p class="meta">AI 管道自动采集、萃取、成刊 · 共 81 期存档 · 每日 19:00 同步 · 更新于 2026-11-20</p>
+  <p class="meta">AI 管道自动采集、萃取、成刊 · 共 82 期存档 · 每日 19:00 同步 · 更新于 2026-11-21</p>
 </header>
 <section class="lane">
-  <div class="lane-head"><h2>每日短讯</h2><span class="freq">每个工作日更新</span><span class="desc">AI · 钱 · 风险 · 信号，四条线的快讯雷达 · 共 65 期</span></div>
-  <a class="latest" href="每日短讯/index.html"><span><span class="kicker" style="font-size:12px">最新一期</span><br><span class="t">每日短讯-2026-11-20</span></span><span class="go">进入栏目 →</span></a>
-  <ul class="issues"><li><span class="n">2026-11-19</span><a href="%E6%AF%8F%E6%97%A5%E7%9F%AD%E8%AE%AF-2026-11-19.html">每日短讯-2026-11-19</a></li><li><span class="n">2026-11-18</span><a href="%E6%AF%8F%E6%97%A5%E7%9F%AD%E8%AE%AF-2026-11-18.html">每日短讯-2026-11-18</a></li><li><span class="n">2026-11-17</span><a href="%E6%AF%8F%E6%97%A5%E7%9F%AD%E8%AE%AF-2026-11-17.html">每日短讯-2026-11-17</a></li><li><span class="n">2026-11-16</span><a href="%E6%AF%8F%E6%97%A5%E7%9F%AD%E8%AE%AF-2026-11-16.html">每日短讯-2026-11-16</a></li><li><span class="n">2026-11-15</span><a href="%E6%AF%8F%E6%97%A5%E7%9F%AD%E8%AE%AF-2026-11-15.html">每日短讯-2026-11-15</a></li></ul>
-  <a class="more" href="每日短讯/index.html">浏览全部 65 期</a>
+  <div class="lane-head"><h2>每日短讯</h2><span class="freq">每个工作日更新</span><span class="desc">AI · 钱 · 风险 · 信号，四条线的快讯雷达 · 共 66 期</span></div>
+  <a class="latest" href="每日短讯/index.html"><span><span class="kicker" style="font-size:12px">最新一期</span><br><span class="t">每日短讯-2026-11-21</span></span><span class="go">进入栏目 →</span></a>
+  <ul class="issues"><li><span class="n">2026-11-20</span><a href="%E6%AF%8F%E6%97%A5%E7%9F%AD%E8%AE%AF-2026-11-20.html">每日短讯-2026-11-20</a></li><li><span class="n">2026-11-19</span><a href="%E6%AF%8F%E6%97%A5%E7%9F%AD%E8%AE%AF-2026-11-19.html">每日短讯-2026-11-19</a></li><li><span class="n">2026-11-18</span><a href="%E6%AF%8F%E6%97%A5%E7%9F%AD%E8%AE%AF-2026-11-18.html">每日短讯-2026-11-18</a></li><li><span class="n">2026-11-17</span><a href="%E6%AF%8F%E6%97%A5%E7%9F%AD%E8%AE%AF-2026-11-17.html">每日短讯-2026-11-17</a></li><li><span class="n">2026-11-16</span><a href="%E6%AF%8F%E6%97%A5%E7%9F%AD%E8%AE%AF-2026-11-16.html">每日短讯-2026-11-16</a></li></ul>
+  <a class="more" href="每日短讯/index.html">浏览全部 66 期</a>
 </section><section class="lane">
   <div class="lane-head"><h2>知识萃取</h2><span class="freq">每日更新</span><span class="desc">一周高增量内容的深度蒸馏成刊，周内每日滚动更新 · 共 13 期</span></div>
   <a class="latest" href="知识萃取/index.html"><span><span class="kicker" style="font-size:12px">最新一期</span><br><span class="t">知识萃取周刊 2026-11-W3</span></span><span class="go">进入栏目 →</span></a>

diff --git a/项目效果展示/知识萃取/index.html b/项目效果展示/知识萃取/index.html
@@ -34,5 +34,5 @@ ul.issues .n{color:var(--muted);font-family:"PingFang SC",sans-serif;font-size:1
   <p class="meta">一周高增量内容的深度蒸馏成刊，周内每日滚动更新 · 每日更新 · 共 13 期</p>
 </header>
 <ul class="issues" style="columns:1"><li><span class="n">2026-11-21</span><a href="%E7%9F%A5%E8%AF%86%E8%90%83%E5%8F%96%E5%91%A8%E5%88%8A%202026-11-W3.html">知识萃取周刊 2026-11-W3</a></li><li><span class="n">2026-11-14</span><a href="%E7%9F%A5%E8%AF%86%E8%90%83%E5%8F%96%E5%91%A8%E5%88%8A%202026-11-W2.html">知识萃取周刊 2026-11-W2</a></li><li><span class="n">2026-11-07</span><a href="%E7%9F%A5%E8%AF%86%E8%90%83%E5%8F%96%E5%91%A8%E5%88%8A%202026-11-W1.html">知识萃取周刊 2026-11-W1</a></li><li><span class="n">2026-10-35</span><a href="%E7%9F%A5%E8%AF%86%E8%90%83%E5%8F%96%E5%91%A8%E5%88%8A%202026-10-W5.html">知识萃取周刊 2026-10-W5</a></li><li><span class="n">2026-10-28</span><a href="%E7%9F%A5%E8%AF%86%E8%90%83%E5%8F%96%E5%91%A8%E5%88%8A%202026-10-W4.html">知识萃取周刊 2026-10-W4</a></li><li><span class="n">2026-10-21</span><a href="%E7%9F%A5%E8%AF%86%E8%90%83%E5%8F%96%E5%91%A8%E5%88%8A%202026-10-W3.html">知识萃取周刊 2026-10-W3</a></li><li><span class="n">2026-10-14</span><a href="%E7%9F%A5%E8%AF%86%E8%90%83%E5%8F%96%E5%91%A8%E5%88%8A%202026-10-W2.html">知识萃取周刊 2026-10-W2</a></li><li><span class="n">2026-09-99</span><a href="%E7%9F%A5%E8%AF%86%E8%90%83%E5%8F%96%E7%89%B9%E5%88%8A-2026-09.html">知识萃取特刊-2026-09</a></li><li><span class="n">2026-09-28</span><a href="%E7%9F%A5%E8%AF%86%E8%90%83%E5%8F%96%E5%91%A8%E5%88%8A%202026-09-W4.html">知识萃取周刊 2026-09-W4</a></li><li><span class="n">2026-09-21</span><a href="%E7%9F%A5%E8%AF%86%E8%90%83%E5%8F%96%E5%91%A8%E5%88%8A%202026-09-W3.html">知识萃取周刊 2026-09-W3</a></li><li><span class="n">2026-09-14</span><a href="%E7%9F%A5%E8%AF%86%E8%90%83%E5%8F%96%202026-09-W2.html">知识萃取 2026-09-W2</a></li><li><span class="n">2026-08-99</span><a href="%E7%9F%A5%E8%AF%86%E8%90%83%E5%8F%96%E7%89%B9%E5%88%8A-2026-08.html">知识萃取特刊-2026-08</a></li><li><span class="n">2026-08-21</span><a href="%E5%9B%9B%E5%91%A8%E5%90%88%E8%BE%91%202026-08-W3%E2%86%9209-W1.html">四周合辑 2026-08-W3→09-W1</a></li></ul>
-<p class="foot">自动生成于 2026-11-20 19:00</p>
+<p class="foot">自动生成于 2026-11-21 19:00</p>
 </div></body></html>

diff --git a/项目效果展示/深读/index.html b/项目效果展示/深读/index.html
@@ -34,5 +34,5 @@ ul.issues .n{color:var(--muted);font-family:"PingFang SC",sans-serif;font-size:1
   <p class="meta">单主题深读特刊 · 不定期更新 · 共 3 期</p>
 </header>
 <ul class="issues" style="columns:1"><li><span class="n">2026-09-12</span><a href="2026-09-12%20%E8%AE%A4%E7%9F%A5%E9%87%8D%E7%BC%96%E8%AF%91-Grok%20Bot%EF%BC%9AAI%E4%BA%A7%E5%93%81%E7%9A%84%E5%8D%95%E4%BD%8D%E4%BB%8E%E5%AF%B9%E8%AF%9D%E5%8F%98%E6%88%90%E5%90%8C%E4%BA%8B.html">2026-09-12 认知重编译-Grok Bot：AI产品的单位从对话变成同事</a></li><li><span class="n">2026-09-12</span><a href="%E6%B7%B1%E8%AF%BB%E7%89%B9%E5%88%8A-01-%E6%8A%80%E6%9C%AF%E9%9D%A9%E5%91%BD%E4%B8%8E%E9%87%91%E8%9E%8D%E8%B5%84%E6%9C%AC.html">深读特刊-01-技术革命与金融资本</a></li><li><span class="n">2026-09-07</span><a href="%E5%88%9B%E6%96%B0%E8%80%85%E7%9A%84%E7%AA%98%E5%A2%83-%E5%95%86%E4%B8%9A%E6%9C%BA%E4%BC%9A%E6%93%8D%E4%BD%9C%E7%B3%BB%E7%BB%9F.html">创新者的窘境-商业机会操作系统</a></li></ul>
-<p class="foot">自动生成于 2026-11-20 19:00</p>
+<p class="foot">自动生成于 2026-11-21 19:00</p>
 </div></body></html>

diff --git a/README.md b/README.md
@@ -37,11 +37,11 @@ flowchart LR
 
 | 产出 | 节奏 | 存档 |
 | --- | --- | --- |
-| 每日短讯 | 每个工作日 | 65 期 |
+| 每日短讯 | 每个工作日 | 66 期 |
 | 知识萃取周刊 | 每日（周内滚动） | 13 期 |
 | 深读特刊 | 不定期 | 3 期 |
 
-共 81 期在线可读，每日 19:00 自动发布 · ![last commit](https://img.shields.io/github/last-commit/bor799/100x-research-engine) · 截图与最新一期见[附录 · 效果展示](#附录--效果展示)
+共 82 期在线可读，每日 19:00 自动发布 · ![last commit](https://img.shields.io/github/last-commit/bor799/100x-research-engine) · 截图与最新一期见[附录 · 效果展示](#附录--效果展示)
 <!-- RESULTS:END -->
 
 ## 系统解决什么
@@ -124,11 +124,11 @@ prompts/   评分、萃取与输出规则
 
 | 栏目 | 频率 | 最新一期 |
 | --- | --- | --- |
-| 每日短讯 | 每个工作日 | [每日短讯-2026-11-20](https://bor799.github.io/100x-research-engine/%E6%AF%8F%E6%97%A5%E7%9F%AD%E8%AE%AF/%E6%AF%8F%E6%97%A5%E7%9F%AD%E8%AE%AF-2026-11-20.html) |
+| 每日短讯 | 每个工作日 | [每日短讯-2026-11-21](https://bor799.github.io/100x-research-engine/%E6%AF%8F%E6%97%A5%E7%9F%AD%E8%AE%AF/%E6%AF%8F%E6%97%A5%E7%9F%AD%E8%AE%AF-2026-11-21.html) |
 | 知识萃取周刊 | 每日（周内滚动） | [知识萃取周刊 2026-11-W3](https://bor799.github.io/100x-research-engine/%E7%9F%A5%E8%AF%86%E8%90%83%E5%8F%96/%E7%9F%A5%E8%AF%86%E8%90%83%E5%8F%96%E5%91%A8%E5%88%8A%202026-11-W3.html) |
 | 深读特刊 | 不定期 | [2026-09-12 认知重编译-Grok Bot：AI产品的单位从对话变成同事](https://bor799.github.io/100x-research-engine/%E6%B7%B1%E8%AF%BB/2026-09-12%20%E8%AE%A4%E7%9F%A5%E9%87%8D%E7%BC%96%E8%AF%91-Grok%20Bot%EF%BC%9AAI%E4%BA%A7%E5%93%81%E7%9A%84%E5%8D%95%E4%BD%8D%E4%BB%8E%E5%AF%B9%E8%AF%9D%E5%8F%98%E6%88%90%E5%90%8C%E4%BA%8B.html) |
 
-**[→ 从首页进入在线杂志](https://bor799.github.io/100x-research-engine/)**（共 81 期存档）
+**[→ 从首页进入在线杂志](https://bor799.github.io/100x-research-engine/)**（共 82 期存档）
 
 *截图与最新一期链接由发布脚本每日自动刷新。*
 <!-- DEMO:END -->

diff --git a/README_EN.md b/README_EN.md
@@ -37,11 +37,11 @@ This pipeline runs daily in production, not as an experiment:
 
 | Output | Cadence | Archive |
 | --- | --- | --- |
-| Daily Wire | Weekdays | 65 issues |
+| Daily Wire | Weekdays | 66 issues |
 | Weekly Digest | Daily (rolling) | 13 issues |
 | Deep Read | Occasional | 3 issues |
 
-81 issues readable online, auto-published daily 19:00 (Asia/Shanghai) · ![last commit](https://img.shields.io/github/last-commit/bor799/100x-research-engine) · Screenshots in the [Appendix](#appendix--live-demo)
+82 issues readable online, auto-published daily 19:00 (Asia/Shanghai) · ![last commit](https://img.shields.io/github/last-commit/bor799/100x-research-engine) · Screenshots in the [Appendix](#appendix--live-demo)
 <!-- RESULTS:END -->
 
 ## Verified
@@ -96,9 +96,9 @@ A fully automated personal knowledge magazine, published to GitHub Pages:
 
 | Lane | Cadence | Latest issue |
 | --- | --- | --- |
-| Daily Wire | Weekdays | [每日短讯-2026-11-20](https://bor799.github.io/100x-research-engine/%E6%AF%8F%E6%97%A5%E7%9F%AD%E8%AE%AF/%E6%AF%8F%E6%97%A5%E7%9F%AD%E8%AE%AF-2026-11-20.html) |
+| Daily Wire | Weekdays | [每日短讯-2026-11-21](https://bor799.github.io/100x-research-engine/%E6%AF%8F%E6%97%A5%E7%9F%AD%E8%AE%AF/%E6%AF%8F%E6%97%A5%E7%9F%AD%E8%AE%AF-2026-11-21.html) |
 | Weekly Digest | Daily (rolling) | [知识萃取周刊 2026-11-W3](https://bor799.github.io/100x-research-engine/%E7%9F%A5%E8%AF%86%E8%90%83%E5%8F%96/%E7%9F%A5%E8%AF%86%E8%90%83%E5%8F%96%E5%91%A8%E5%88%8A%202026-11-W3.html) |
 | Deep Read | Occasional | [2026-09-12 认知重编译-Grok Bot：AI产品的单位从对话变成同事](https://bor799.github.io/100x-research-engine/%E6%B7%B1%E8%AF%BB/2026-09-12%20%E8%AE%A4%E7%9F%A5%E9%87%8D%E7%BC%96%E8%AF%91-Grok%20Bot%EF%BC%9AAI%E4%BA%A7%E5%93%81%E7%9A%84%E5%8D%95%E4%BD%8D%E4%BB%8E%E5%AF%B9%E8%AF%9D%E5%8F%98%E6%88%90%E5%90%8C%E4%BA%8B.html) |
 
-**[→ Open the magazine](https://bor799.github.io/100x-research-engine/)** (81 issues archived)
+**[→ Open the magazine](https://bor799.github.io/100x-research-engine/)** (82 issues archived)
 <!-- DEMO:END -->
